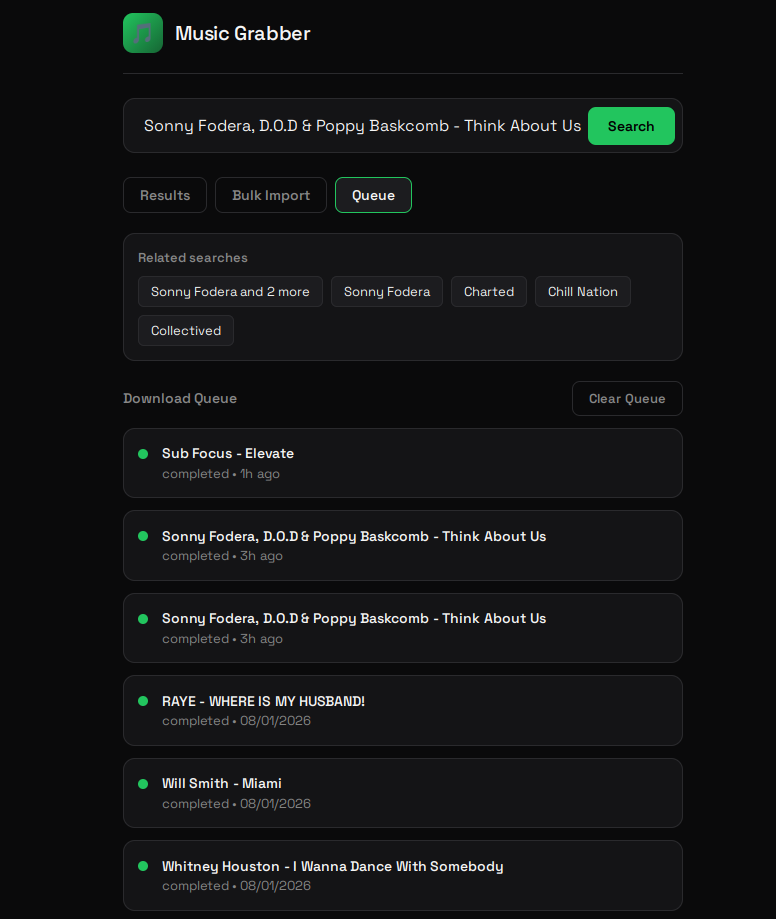
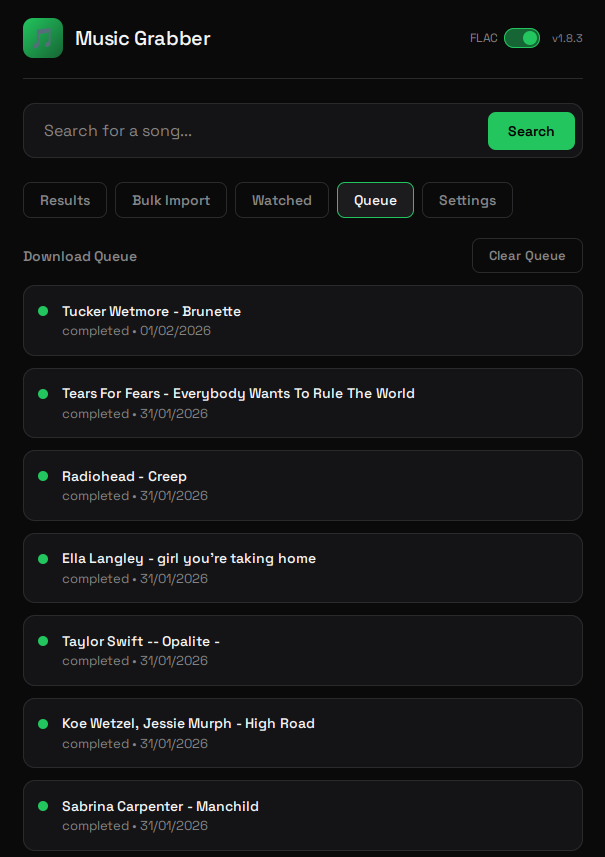
updated readme for 1.8.5
built with a human and a grumpy-AI combo

diff --git a/README.md b/README.md
@@ -1,6 +1,6 @@
 # Music Grabber 🎵
 
-**v1.8.3**
+**v1.8.5**
 
 A self-hosted music acquisition service. Search YouTube, tap a result, and it downloads the best quality audio as FLAC straight into your music library.
 
@@ -13,6 +13,7 @@ Lidarr's great for albums, but grabbing a single track you heard on the radio sh
 ## Features
 
 - **Mobile-friendly UI** — designed for quick searches from your phone
+- **Dark/light theme** — toggle between themes with the moon/sun button; preference saved per browser
 - **Settings tab** — configure all integrations via UI (no docker-compose editing required)
 - **Optional API authentication** — protect your instance with an API key
 - **Hover to preview** — on desktop, hover over a result for 2 seconds to hear a preview
@@ -22,12 +23,17 @@ Lidarr's great for albums, but grabbing a single track you heard on the radio sh
 - **Watched playlists** — monitor Spotify/YouTube playlists and auto-download new tracks
 - **Bulk import** — paste or upload a text file of songs to auto-search and queue
 - **Best quality FLAC** — extracts highest available audio quality
+- **Minimum bitrate enforcement** — optionally reject downloads below a configurable bitrate threshold
+- **Audio quality display** — completed downloads show codec and bitrate in the queue details
 - **Enhanced metadata** — MusicBrainz lookups with fallback to cleaned YouTube data
 - **Synced lyrics** — automatic lyrics fetching from LRClib, saved as `.lrc` files
 - **Auto-organise** — creates `Singles/Artist/Title.flac` structure
 - **Duplicate detection** — skips already-downloaded tracks
-- **Job queue** — track download progress, retry failed jobs, manage history
-- **Optional Navidrome integration** — auto-triggers library rescan
+- **Job queue** — track download progress, retry failed jobs, re-download or delete files from the queue
+- **Statistics dashboard** — download counts, success rate, daily chart, top artists, search analytics
+- **Webhook notifications** — get notified via Telegram, email, or generic webhook on download events
+- **YouTube cookie support** — upload browser cookies in Settings to bypass YouTube bot detection
+- **Optional Navidrome/Jellyfin integration** — auto-triggers library rescan after downloads
 
 ## Why FLAC?
 
@@ -38,6 +44,10 @@ This project uses FLAC primarily for standardisation and consistent tagging acro
 | Search & Results | Bulk Import | Queue |
 |:---:|:---:|:---:|
 | ![Search and Results](assets/SearchAndResults.png) | ![Bulk Import](assets/BulkImport.png) | ![Queue](assets/Queue.png) |
+
+| Watched Playlists | Settings | Dark & Light Theme |
+|:---:|:---:|:---:|
+| ![Watched Playlists](assets/WatchedPlaylists.png) | ![Settings](assets/SettingsTab.png) | ![Dark and Light Theme](assets/NightAndDay.png) |
 
 ## Quick Start
 
@@ -75,6 +85,7 @@ This project uses FLAC primarily for standardisation and consistent tagging acro
          # Optional: Notifications
          # - NOTIFY_ON=playlists,bulk,errors
          # - TELEGRAM_WEBHOOK_URL=https://api.telegram.org/bot{token}/sendMessage?chat_id={chat_id}
+         # - WEBHOOK_URL=https://your-webhook-endpoint.com/hook
          # - SMTP_HOST=smtp.example.com
          # - SMTP_PORT=587
          # - SMTP_USER=user@example.com
@@ -127,11 +138,12 @@ This project uses FLAC primarily for standardisation and consistent tagging acro
 
 The easiest way to configure MusicGrabber is via the **Settings tab** in the UI. You can configure:
 
-- **General**: MusicBrainz metadata, lyrics fetching, default FLAC conversion
+- **General**: MusicBrainz metadata, lyrics fetching, default FLAC conversion, minimum audio bitrate
 - **Soulseek (slskd)**: URL, credentials, downloads path
 - **Navidrome**: URL and credentials for library refresh
 - **Jellyfin**: URL and API key for library refresh
-- **Notifications**: Telegram webhook and SMTP settings
+- **Notifications**: Telegram webhook, generic webhook URL, and SMTP settings
+- **YouTube**: Upload browser cookies for authenticated downloads
 - **Security**: API key for authentication
 
 Settings are stored in the database and persist across container restarts.
@@ -149,6 +161,9 @@ Settings are stored in the database and persist across container restarts.
 | `ENABLE_MUSICBRAINZ` | `true` | Enable MusicBrainz metadata lookups |
 | `ENABLE_LYRICS` | `true` | Enable automatic lyrics fetching from LRClib |
 | `DEFAULT_CONVERT_TO_FLAC` | `true` | Convert downloads to FLAC by default (can be toggled per-download in UI) |
+| `MIN_AUDIO_BITRATE` | `0` | Minimum audio bitrate in kbps. Downloads below this are rejected. 0 = disabled. Lossless (FLAC) always passes |
+| `WEBHOOK_URL` | - | Generic webhook URL — receives JSON POST on download completion/failure |
+| `YTDLP_PLAYER_CLIENT` | *(empty)* | Override yt-dlp YouTube player client (expert-only, e.g. `android`, `web,android`) |
 | `NAVIDROME_URL` | - | Navidrome server URL (e.g., `http://navidrome:4533`) |
 | `NAVIDROME_USER` | - | Navidrome username for API |
 | `NAVIDROME_PASS` | - | Navidrome password for API |
@@ -199,7 +214,7 @@ Get your API key from Jellyfin: Dashboard → API Keys → Add.
 
 ### Notifications (Optional)
 
-Get notified when downloads complete or fail via Telegram and/or email. Configure one or both channels, the same triggers apply to all.
+Get notified when downloads complete or fail via Telegram, email, or a generic webhook. Configure one or more channels — the same triggers apply to all.
 
 **Notification triggers** (`NOTIFY_ON`):
 
@@ -239,6 +254,15 @@ environment:
 ```
 
 `SMTP_TO` can be a comma-separated list for multiple recipients.
+
+**Generic webhook:**
+
+Set `WEBHOOK_URL` to any URL. MusicGrabber sends a JSON POST with event type, title, artist, status, source, and track counts. Useful for custom integrations (Discord bots, Home Assistant, etc.).
+
+```yaml
+environment:
+  - WEBHOOK_URL=https://your-endpoint.com/hook
+```
 
 ### Soulseek Integration (Optional)
 
@@ -378,9 +402,11 @@ Supports various dash formats: `-`, `–`, `—`
 ### Queue Management
 
 - **View progress** — See queued, in-progress, completed, and failed jobs
+- **Job details** — Click completed/failed jobs to see source, timestamps, download duration, and audio quality
+- **Re-download** — Re-queue any completed or failed download (overwrites existing file)
+- **Delete from library** — Remove the audio file and lyrics directly from the queue
 - **Retry failed** — Click retry on individual failed downloads
 - **Clear queue** — Remove all remembered jobs with the "Clear Queue" button
-- **Bulk cleanup** — Use API endpoints to remove completed/failed jobs in bulk
 
 ## File Structure
 
@@ -471,14 +497,15 @@ music.yourdomain.com {
 | `POST` | `/api/search/slskd` | Search Soulseek via slskd (if configured) |
 | `GET` | `/api/preview/{video_id}` | Get streamable audio URL for preview (YouTube only) |
 | `POST` | `/api/download` | Queue download (`{"video_id": "...", "title": "...", "download_type": "single/playlist"}`) |
-| `POST` | `/api/bulk-import` | Bulk import songs (synchronous, blocks until searched) |
 | `POST` | `/api/bulk-import-async` | Bulk import songs (async, returns immediately) |
 | `GET` | `/api/bulk-import/{id}/status` | Get async bulk import progress |
 | `GET` | `/api/bulk-imports` | List recent bulk imports |
 | `POST` | `/api/spotify-playlist` | Fetch tracks from Spotify playlist/album URL |
+| `GET` | `/api/stats` | Get statistics (download counts, daily chart, top artists, search analytics) |
 | `GET` | `/api/jobs` | List recent jobs |
 | `GET` | `/api/jobs/{id}` | Get job status |
 | `POST` | `/api/jobs/{id}/retry` | Retry a failed download |
+| `DELETE` | `/api/jobs/{id}/file` | Delete downloaded file and lyrics from library |
 | `DELETE` | `/api/jobs/cleanup` | Delete jobs (`?status=completed/failed/both`) |
 | `GET` | `/api/watched-playlists` | List all watched playlists |
 | `POST` | `/api/watched-playlists` | Add a playlist to watch |
@@ -487,6 +514,9 @@ music.yourdomain.com {
 | `DELETE` | `/api/watched-playlists/{id}` | Remove a watched playlist |
 | `POST` | `/api/watched-playlists/{id}/refresh` | Check playlist for new tracks |
 | `POST` | `/api/watched-playlists/check-all` | Check all watched playlists |
+| `GET` | `/api/watched-playlists/schedule` | Get next scheduled check time |
+| `POST` | `/api/settings/test/youtube-cookies` | Test YouTube cookie validity |
+| `GET` | `/api/settings/youtube-cookies/status` | Get cookie upload status |
 
 ## Updating yt-dlp
 
@@ -526,7 +556,13 @@ docker compose up -d
   ```
 - Find your UID/GID with: `id $USER`
 
-**Downloads failing?**
+**Downloads failing with 403 errors?**
+- YouTube's bot detection may be blocking requests
+- Go to Settings → YouTube and upload browser cookies (export from a browser where you're signed into YouTube)
+- Use a cookie export extension like "Get cookies.txt LOCALLY" (Chrome/Firefox)
+- Cookies expire periodically — re-export if downloads start failing again
+
+**Downloads failing for other reasons?**
 - Check `docker compose logs music-grabber`
 - YouTube may have changed something — try updating yt-dlp
 - Some videos are region-locked or age-restricted
